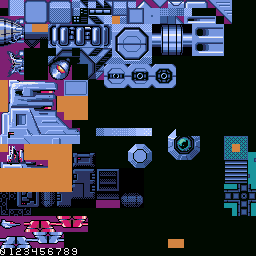
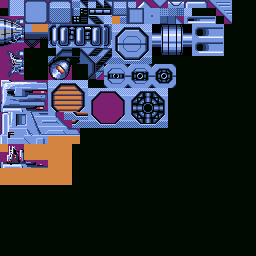
巨大戦艦 レーザー

diff --git a/source/bossBattleShip.py b/source/bossBattleShip.py
@@ -5,10 +5,11 @@ import random
 import gcommon
 import enemy
 import boss
+import drawing
 from objMgr import ObjMgr
 from gameSession import GameSession
 from audio import BGM
-from enemy import CountMover, Fan1a
+from enemy import CountMover
 
 class BossBattleShip(enemy.EnemyBase):
     TILE_LEFT = 4
@@ -24,7 +25,9 @@ class BossBattleShip(enemy.EnemyBase):
     stateTable0 = [
         [699, 0],
         [1049, 1],
-        [3000, 2],
+        [1499, 2],
+        [1799, 3],
+        [5000, 4],
     ]
     # moveTable0 = [
     #     [0, CountMover.SET_POS, 256.0, -80.0],
@@ -81,6 +84,13 @@ class BossBattleShip(enemy.EnemyBase):
         self.appendBattery(49, 20, 0)
         self.appendBattery(53, 20, 0)
         self.appendBattery(11, 43, 1)       # 下
+        self.appendBattery(73, 20, 0)
+        self.appendBattery(84, 21, 0)
+        self.appendBattery(88, 21, 0)
+        self.appendBattery(92, 21, 0)
+        self.appendBattery(103, 21, 0)
+        self.appendBattery(107, 21, 0)
+        self.appendBattery(111, 21, 0)
 
     def appendBattery(self, mx, my, direction):
         self.batteryList.append(BattleShipBattery(self, (mx -__class__.TILE_LEFT)*8, (my -__class__.TILE_TOP)*8, direction))
@@ -107,6 +117,14 @@ class BossBattleShip(enemy.EnemyBase):
                 p = int((self.stater.cnt-1050)/20)
                 if p <= 3:
                     ObjMgr.addObj(BattleShipMissileLauncher1(self, (61-__class__.TILE_LEFT + p*5)*8, (32- __class__.TILE_TOP)*8, 61 +p*5, 32, 56))
+        elif self.stater.state == 3:
+            if self.stater.cnt == 1500:
+                ObjMgr.addObj(BossBattleShipLaserCannon(self, (91-__class__.TILE_LEFT)*8, (31-__class__.TILE_TOP)*8))
+        elif self.stater.state == 4:
+            if self.stater.cnt % 20 == 0:
+                p = int((self.stater.cnt-1800)/20)
+                if p <= 3:
+                    ObjMgr.addObj(BattleShipMissileLauncher1(self, (102-__class__.TILE_LEFT + p*5)*8, (32- __class__.TILE_TOP)*8, 102 +p*5, 32, 56))
 
     def draw(self):
         pyxel.bltm(self.x, self.y, 1, 4, 15, 134-4, 45-15, 2)
@@ -117,6 +135,11 @@ class BossBattleShip(enemy.EnemyBase):
         if shot.removeFlag:
             return False
         return self.getTileHit(shot.x + (shot.right -shot.left+1)/2, shot.y + (shot.bottom -shot.top+1)/2)
+
+    # 自機と敵との当たり判定
+    def checkMyShipCollision(self):
+        obj = ObjMgr.myShip
+        return self.getTileHit(obj.x + (obj.right -obj.left+1)/2, obj.y + (obj.bottom -obj.top+1)/2)
 
     # 当たった場合の破壊処理
     # 破壊した場合True
@@ -298,8 +321,8 @@ class BattleShipHomingMissile1(enemy.EnemyBase):
         self.x += math.cos(gcommon.atan_table[self.dr & 63]) * self.speed
         self.y += math.sin(gcommon.atan_table[self.dr & 63]) * self.speed
         if self.cnt % 3 == 0:
-            fx = math.cos(gcommon.atan_table[self.dr]) * 8
-            fy = math.sin(gcommon.atan_table[self.dr]) * 8
+            fx = math.cos(gcommon.atan_table[self.dr]) * 12
+            fy = math.sin(gcommon.atan_table[self.dr]) * 12
             ObjMgr.addObj(Smoke1(self.x -fx, self.y -fy))
                 
     def draw(self):
@@ -317,15 +340,15 @@ class BattleShipHomingMissile1(enemy.EnemyBase):
 # ミサイル発射管
 class BattleShipMissileLauncher1(enemy.EnemyBase):
     stateTable0 = [
-        [10, 1],
-        [10, 2],
+        [5, 1],
+        [5, 2],
+        [5, 3],    # 発射
         [10, 3],    # 発射
         [10, 3],    # 発射
-        [10, 3],    # 発射
-        [10, 2],
-        [10, 1],
-        [10, 0],
-        [10, 4],
+        [5, 2],
+        [5, 1],
+        [5, 0],
+        [5, 4],
     ]
     def __init__(self, parent, ox, oy, mx, my, direction):
         super(__class__, self).__init__()
@@ -351,13 +374,11 @@ class BattleShipMissileLauncher1(enemy.EnemyBase):
                 pyxel.tilemap(1).copy(self.mx, self.my, 1, 3 * state, 84, 3, 3)
         if state == 3:
             if self.stater.cnt == 0:
-                gcommon.debugPrint("Missile " + str(self.x) + " " + str(self.y))
                 px = self.x +12 + gcommon.cos_table[self.direction] * 6.0
                 py = self.y +12 + gcommon.sin_table[self.direction] * 6.0
                 obj = BattleShipHomingMissile1(px, py, self.direction)
                 ObjMgr.addObj(obj)
         if self.stater.isEnd:
-            gcommon.debugPrint("launcher remove")
             self.remove()
 
 class Smoke1(enemy.EnemyBase):
@@ -415,10 +436,114 @@ class BossBattleShipBridge(enemy.EnemyBase):
         self.x = self.parent.x + self.offsetX
         self.y = self.parent.y + self.offsetY
 
-
     def draw(self):
         pyxel.bltm(gcommon.sint(self.x), gcommon.sint(self.y), 1, 0, 92, 6, 4, 2)
 
     def broken(self):
         super(__class__, self).broken()
         pyxel.tilemap(1).copy(4 +int(self.offsetX/8), 15 +int(self.offsetY/8), 1, 4 +int(self.offsetX/8), 50 +int(self.offsetY/8), 6, 4)
+
+# レーザー砲
+#  state
+#   0 : シャッター開く
+#   1 : レーザー砲出てくる（明るくなる）
+#   2 : 回転しながら攻撃（反時計回り）
+#   3 : 回転しながら攻撃（時計回り）
+#   4 : レーザー砲隠れる（暗くなる）
+#   5 : シャッター閉まる
+class BossBattleShipLaserCannon(enemy.EnemyBase):
+    def __init__(self, parent, ox, oy):
+        super(__class__, self).__init__()
+        self.parent = parent
+        self.x = self.parent.x + ox
+        self.y = self.parent.y + oy
+        self.offsetX = ox
+        self.offsetY = oy
+        self.left = 0
+        self.top = 0
+        self.right = 31
+        self.bottom = 31
+        self.layer = gcommon.C_LAYER_SKY
+        self.ground = False
+        self.hitCheck = False
+        self.shotHitCheck = False
+        self.rad = 0.0
+        self.shotCount = 0
+        self.gunWidth = 48
+        self.gunHeight = 48
+        self.image = [None]* self.gunWidth
+        self.work = [None]* self.gunHeight
+        for y in range(self.gunWidth):
+            self.image[y] = [0]*self.gunHeight
+        img = pyxel.image(1)
+        for y in range(self.gunWidth):
+            for x in range(self.gunHeight):
+                self.image[y][x] = img.get(x +128, y +128)
+
+    def update(self):
+        self.x = self.parent.x + self.offsetX
+        self.y = self.parent.y + self.offsetY
+        if self.state == 0:
+            # シャッター開く
+            if self.cnt == 30:
+                self.nextState()
+        elif self.state == 1:
+            # レーザー砲出てくる（明るくなる）
+            if self.cnt == 30:
+                self.nextState()
+        elif self.state == 2:
+            # 回転しながら攻撃（反時計回り）
+            self.rad -= math.pi * 1.5/180
+            if self.cnt % 8 == 0:
+                ObjMgr.addObj(boss.BossLaserBeam1(
+                    self.x +56/2 + math.cos(self.rad) * 8,
+                    self.y +40/2 + math.sin(self.rad) * 8, self.rad))
+            if self.rad < -math.pi *150/180:
+                self.nextState()
+        elif self.state == 3:
+            self.rad += math.pi * 1.5/180
+            # 回転しながら攻撃（時計回り）
+            if self.cnt % 8 == 0:
+                ObjMgr.addObj(boss.BossLaserBeam1(gcommon.sint(self.x +56/2), gcommon.sint(self.y +40/2), self.rad))
+                if self.rad >= 0.0:
+                    self.rad = 0.0
+                    self.nextState()
+        elif self.state == 4:
+            # レーザー砲隠れる（暗くなる）
+            if self.cnt == 30:
+                self.nextState()
+        elif self.state == 5:
+            # シャッター閉まる
+            if self.cnt == 30:
+                self.remove()
+
+    def draw(self):
+        if self.state in (0, 5):
+            pyxel.bltm(gcommon.sint(self.x), gcommon.sint(self.y), 1, 30, 84, 7, 5)
+            # レーザー砲
+            drawing.Drawing.setBrightnessWithoutBlack2(-3)
+            pyxel.blt(gcommon.sint(self.x +(56-self.gunWidth)/2), gcommon.sint(self.y +(40-self.gunHeight)/2), 1, 128, 128, self.gunWidth, self.gunHeight, 2)
+            pyxel.pal()
+            # シャッター
+            if self.state == 0:
+                y = int(self.cnt/2)
+            else:
+                y = 15 -int(self.cnt/2)
+            if y <= 15:
+                pyxel.blt(self.x, self.y +5, 1, 128, 176+y, 56, 15-y, 2)
+                pyxel.blt(self.x, self.y +20+y, 1, 128, 176, 56, 15-y, 2)
+            pyxel.bltm(gcommon.sint(self.x), gcommon.sint(self.y), 1, 23, 84, 7, 5, 2)
+        elif self.state in (1, 4):
+            pyxel.bltm(gcommon.sint(self.x), gcommon.sint(self.y), 1, 30, 84, 7, 5)
+            # レーザー砲
+            if self.state == 1:
+                drawing.Drawing.setBrightnessWithoutBlack2(int(self.cnt/10) -3)
+            else:
+                drawing.Drawing.setBrightnessWithoutBlack2(-int(self.cnt/10))
+            pyxel.blt(gcommon.sint(self.x +(56-self.gunWidth)/2), gcommon.sint(self.y +(40-self.gunHeight)/2), 1, 128, 128, self.gunWidth, self.gunHeight, 2)
+            pyxel.pal()
+        elif self.state in (2, 3):
+            pyxel.bltm(gcommon.sint(self.x), gcommon.sint(self.y), 1, 30, 84, 7, 5)
+            drawing.Drawing.setRotateImage(176, 128, 1, self.work, self.image, -self.rad, 2)
+            pyxel.blt(gcommon.sint(self.x +(56-self.gunWidth)/2), gcommon.sint(self.y +(40-self.gunHeight)/2), 1, 176, 128, self.gunWidth, self.gunHeight, 2)
+        

diff --git a/source/graslay.py b/source/graslay.py
@@ -270,7 +270,8 @@ class MainGame:
 			self.ExecuteEvent()
 			ObjMgr.updateDrawMap0(True)
 			ObjMgr.updateDrawMap(True)
-			
+			self.ExecuteStory()
+			self.updateEnemy()
 			gcommon.game_timer = gcommon.game_timer + 1	
 	
 	def doPause(self):
@@ -406,6 +407,12 @@ class MainGame:
 				newShots.append(shot)
 		ObjMgr.shots = newShots
 
+		self.updateEnemy()
+		self.Collision()
+		
+		gcommon.game_timer = gcommon.game_timer + 1
+	
+	def updateEnemy(self):
 		newObjs = []
 		for obj in ObjMgr.objs:
 			if obj.removeFlag == False:
@@ -428,11 +435,6 @@ class MainGame:
 			newObjs.append(obj)
 		ObjMgr.insertObjs.clear()
 		ObjMgr.objs = newObjs
-
-		self.Collision()
-		
-		gcommon.game_timer = gcommon.game_timer + 1
-	
 
 	def draw(self):
 		pyxel.cls(0)
@@ -831,7 +833,7 @@ class MainGame:
 			[0, StartMapDrawBattleShip],
 			[0, SetMapScroll, 1.0, 0.0],
 			[baseOffset +520, SetMapScroll, 1.0, -0.25],
-			[baseOffset +1050, SetMapScroll, 1.0, 0.0],
+			[baseOffset +1014, SetMapScroll, 1.0, 0.0],
 			[baseOffset +2800, SetMapScroll, 0.5, 0.25],
 			[baseOffset +3280, SetMapScroll, 0.25, 0.0],
 		]

diff --git a/source/drawing.py b/source/drawing.py
@@ -293,6 +293,12 @@ class Drawing:
     0,1,2,8,4,5,3,9,12,13,14,11,6,10,15,7
     ]
 
+    dark_color_table = [
+    #   0  1  2  3  4  5   6   7  8  9 10 11 12 13 14  15
+        0, 0, 1, 1, 2, 1, 12, 13, 2, 8, 9, 3, 5, 5, 8, 10
+    ]
+
+
     # 明るさを設定する（-15～+15）
     @classmethod
     def setBrightness(cls, level):
@@ -314,6 +320,18 @@ class Drawing:
             else:
                 pyxel.pal(cls.color_table[c], cls.color_table[c +level])
 
+    @classmethod
+    def setBrightnessWithoutBlack2(cls, level):
+        if level == 0:
+            return
+        tbl = [0] * 16
+        for c in range(1, 15):
+            tbl[c] = cls.dark_color_table[c]
+        for i in range(-level-1):
+            for c in range(1, 15):
+                tbl[c] = cls.dark_color_table[tbl[c]]
+        for c in range(1, 15):
+            pyxel.pal(c, tbl[c])
 
     @classmethod
     def clipLine(cls, ip1, ip2, points):

diff --git a/source/story.py b/source/story.py
@@ -21,12 +21,33 @@ from enemyBattery import ContainerCarrier1
 from enemyBattery import Tractor1
 from enemyArmored import Armored1
 from gameSession import GameSession
+from objMgr import ObjMgr
 from enemy import CountMover
 import enemyFighter
 import enemyMine
 import enemyOthers
 import enemyCreature
 
+class StoryManager:
+
+	def __init__(self, story):
+		self.story = story
+		self.story_pos = 0
+
+	def doStory(self):
+		while True:
+			if len(self.story) <= self.story_pos:
+				return
+		
+			s = self.story[self.story_pos]
+			if s[0] < gcommon.game_timer:
+				pass
+			elif s[0] != gcommon.game_timer:
+				return
+			else:
+				method = s[1]	# [1]はメソッド
+				method(s)
+			self.story_pos = self.story_pos + 1
 
 class Story:
 	@classmethod

diff --git a/source/enemy.py b/source/enemy.py
@@ -102,11 +102,9 @@ class EnemyBase:
 
 	def nextState(self):
 		self.nextStateNo = self.state + 1
-		self.cnt = 0
 
 	def setState(self, state):
 		self.nextStateNo = state
-		self.cnt = 0
 
 	# 自機弾と敵との当たり判定
 	def checkShotCollision(self, shot):
